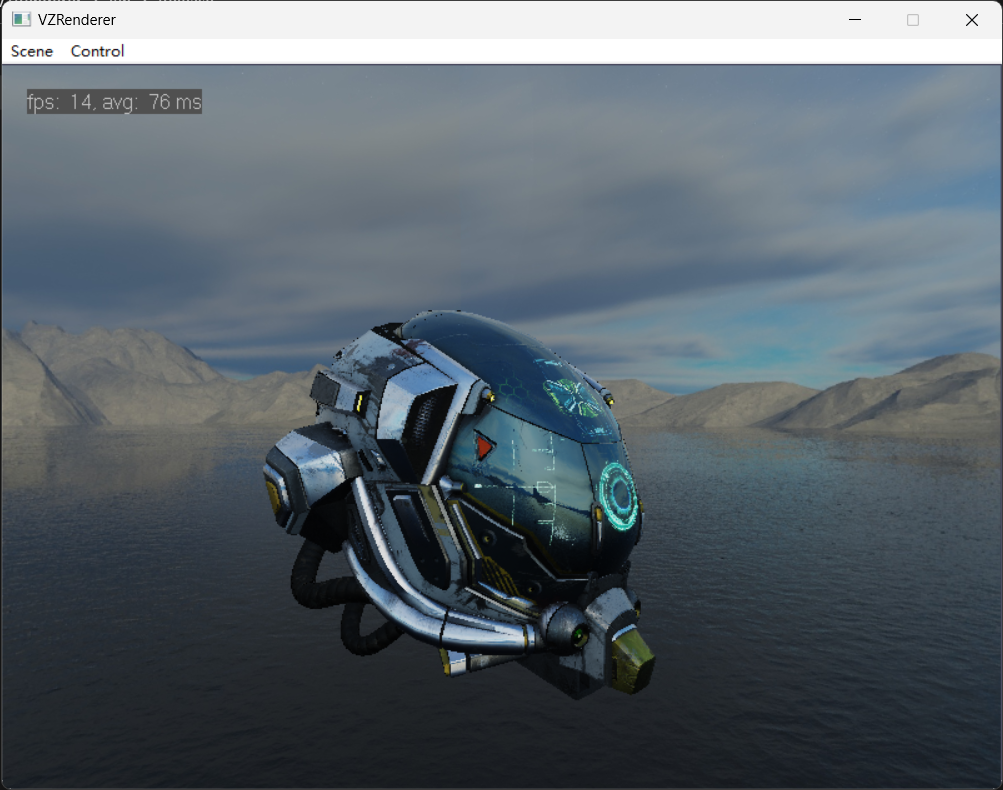
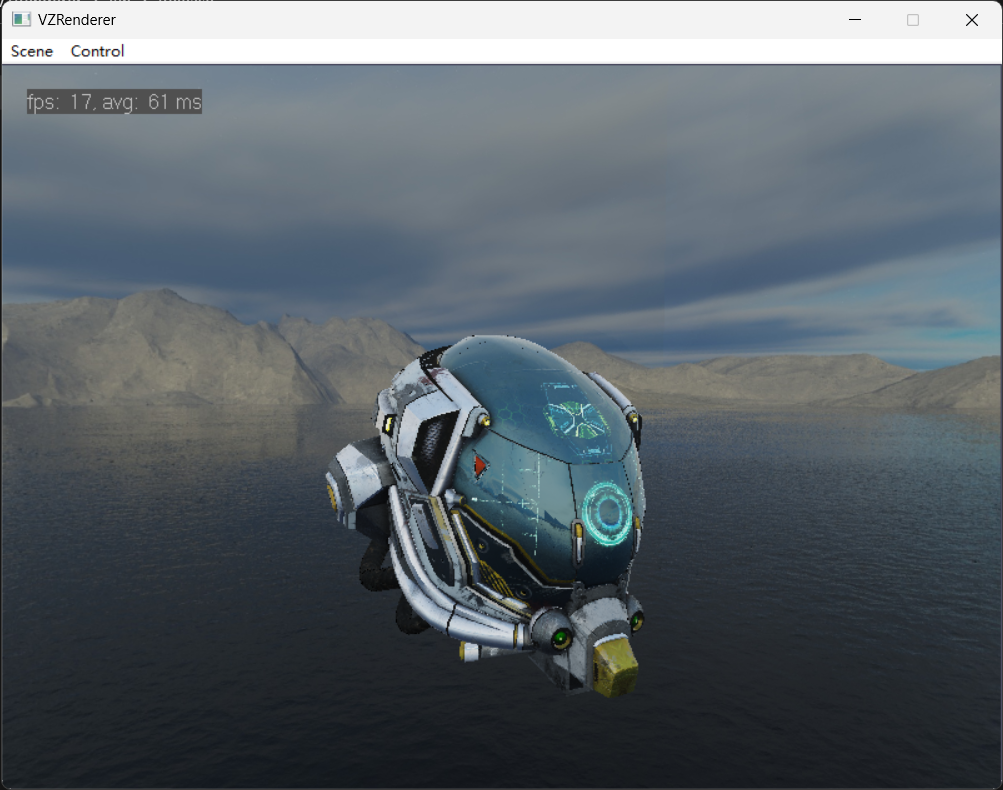
update

diff --git a/VZRenderer/pbrshader.cpp b/VZRenderer/pbrshader.cpp
@@ -184,8 +184,6 @@ Vec3f PBRShader::fragment_shader(float alpha, float beta, float gamma)
 		// diffuse part
 		cubemap_t* irradiance_map = payload.iblmap->irradiance_map;
 		Vec3f irradiance = cubemap_sampling(irradiance_map, n);
-		for (int i = 0; i < 3; i++)
-			irradiance[i] = pow(irradiance[i], 2.0f);
 		Vec3f diffuse = irradiance * Kd * albedo;
 
 		// specular part
@@ -198,8 +196,6 @@ Vec3f PBRShader::fragment_shader(float alpha, float beta, float gamma)
 		float max_mip_level = (float)(payload.iblmap->mip_levels - 1);
 		int specular_miplevel = (int)(roughness * max_mip_level + 0.5f);
 		Vec3f prefilter_color = cubemap_sampling(payload.iblmap->prefilter_maps[specular_miplevel], l);
-		for (int i = 0; i < 3; i++)
-			prefilter_color[i] = pow(prefilter_color[i], 2.0f);
 		specular = (prefilter_color * specular);
 
 		color = (diffuse + specular) + emission;
